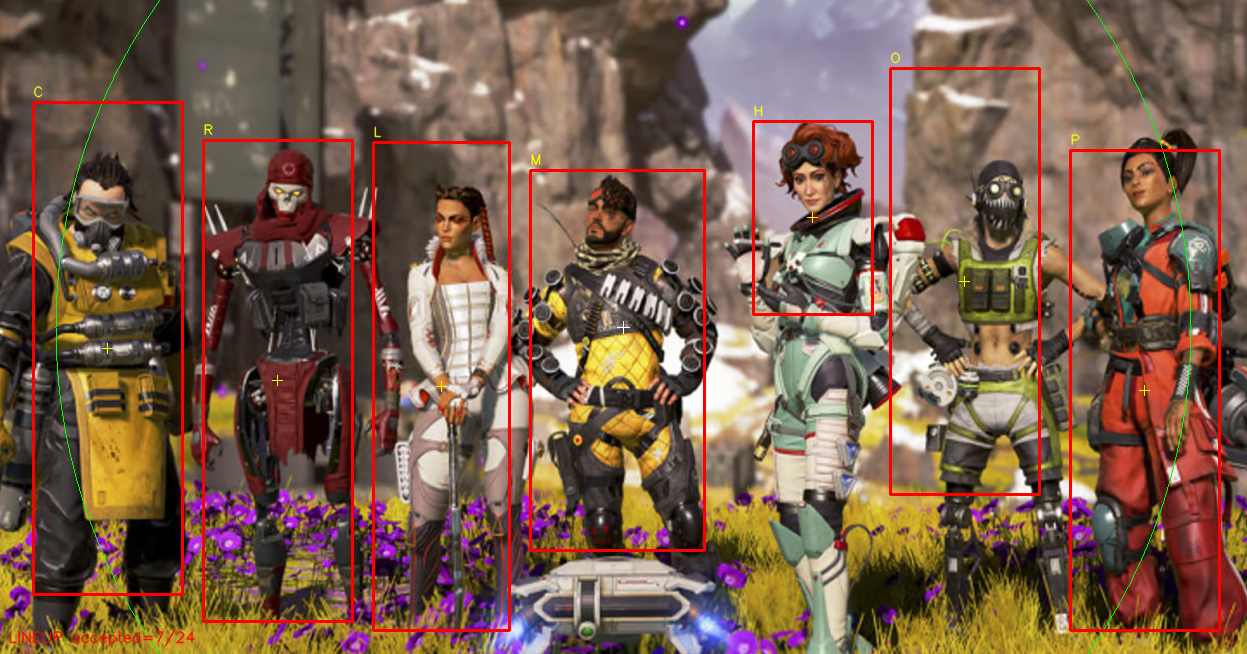
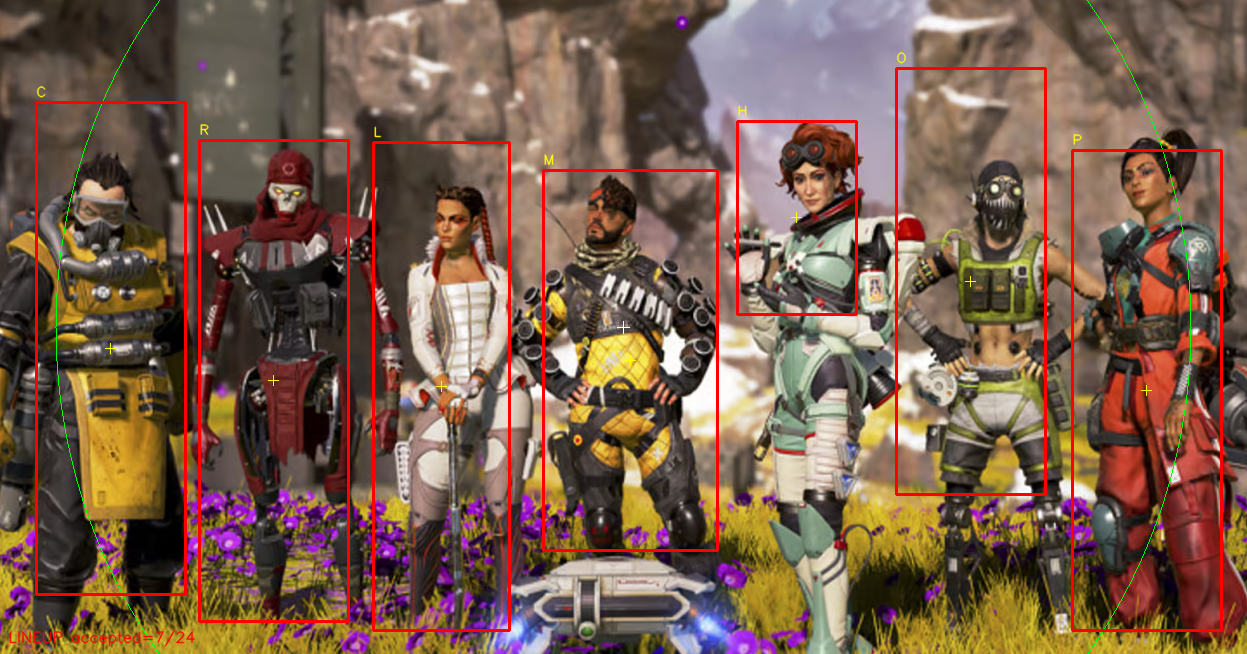
Octane centering via mask torso mean; lineup wiring tests
Final overlay X blends slot anchor with torso-mask centroid (mean x, not
argmax) and clamps to column. Octane slot uses 62% mask weight; Caustic
tight right clamp. Add tests that lineup_display refine is invoked and
enumerate vs find_best_target roles stay distinct.

diff --git a/tests/test_lineup_detector_wiring.py b/tests/test_lineup_detector_wiring.py
@@ -1,0 +1,100 @@
+"""Lineup-wide FOV path: enumerate + analyze_figure + refine stay connected."""
+
+from __future__ import annotations
+
+from pathlib import Path
+from unittest.mock import patch
+
+import cv2
+import pytest
+
+import detector
+
+INPUT = (
+    Path(__file__).resolve().parents[1]
+    / "artifacts"
+    / "real_apex_test"
+    / "_inputs"
+    / "img6_seven_characters.png"
+)
+
+
+@pytest.mark.skipif(not INPUT.exists(), reason="real img6 fixture missing")
+def test_lineup_wide_fov_enables_display_refine() -> None:
+    """img6 FOV must set lineup_display so overlay uses _refine_lineup_display_bbox."""
+    img = cv2.imread(str(INPUT))
+    assert img is not None
+    h, w = img.shape[:2]
+    fov_r = int(0.95 * max(w, h) / 2.0)
+    assert detector._is_lineup_wide_fov(float(fov_r), w, h)
+    refine_calls: list[bool] = []
+    orig_refine = detector._refine_lineup_display_bbox
+
+    def _track_refine(*args, **kwargs):
+        refine_calls.append(True)
+        return orig_refine(*args, **kwargs)
+
+    gray = cv2.cvtColor(img, cv2.COLOR_BGR2GRAY)
+    ctx = detector.DetectionContext()
+    ctx.prev_gray = gray
+    ctx.prev_size = (w, h)
+    with patch.object(
+        detector, "_refine_lineup_display_bbox", side_effect=_track_refine
+    ):
+        cands, _, _ = detector.enumerate_candidates(
+            img,
+            None,
+            fov_r,
+            max(40.0, 60.0 * (min(w, h) / 1080.0) ** 2),
+            w / 2.0,
+            h / 2.0,
+            exclude_bottom_frac=0.05,
+            detection_mode=detector.DETECTION_MODE_APEX,
+            context=ctx,
+        )
+    assert refine_calls, "lineup_display refine never invoked"
+    accepted = [c for c in cands if c.accepted]
+    assert 6 <= len(accepted) <= 8
+
+
+@pytest.mark.skipif(not INPUT.exists(), reason="real img6 fixture missing")
+def test_enumerate_and_collect_share_lineup_wide_reject() -> None:
+    """Both entry points must agree on lineup_wide_fov for the same frame/FOV."""
+    img = cv2.imread(str(INPUT))
+    assert img is not None
+    h, w = img.shape[:2]
+    fov_r = int(0.95 * max(w, h) / 2.0)
+    gray = cv2.cvtColor(img, cv2.COLOR_BGR2GRAY)
+    ctx = detector.DetectionContext()
+    ctx.prev_gray = gray
+    ctx.prev_size = (w, h)
+    min_area = max(40.0, 60.0 * (min(w, h) / 1080.0) ** 2)
+    cx, cy = w / 2.0, h / 2.0
+    enum_cands, _, _ = detector.enumerate_candidates(
+        img,
+        None,
+        fov_r,
+        min_area,
+        cx,
+        cy,
+        exclude_bottom_frac=0.05,
+        detection_mode=detector.DETECTION_MODE_APEX,
+        context=ctx,
+    )
+    with patch.object(detector, "_prune_lineup_candidates") as mock_prune:
+        detector.find_best_target(
+            img,
+            None,
+            fov_r,
+            min_area,
+            cx,
+            cy,
+            exclude_bottom_frac=0.05,
+            detection_mode=detector.DETECTION_MODE_APEX,
+            context=ctx,
+        )
+    assert not mock_prune.called, "find_best_target must not prune (enumerate-only)"
+    octane = sorted([c for c in enum_cands if c.accepted], key=lambda c: c.bbox_x)[5]
+    slot_cx = w * detector._LINEUP_SLOT_X_FRACS[5]
+    oct_cx = octane.bbox_x + octane.bbox_w * 0.5
+    assert abs(oct_cx - slot_cx) <= w * 0.015

diff --git a/detector.py b/detector.py
@@ -1780,6 +1780,29 @@ def _lineup_display_anchor_cx(
     return 0.52 * slot_cx + 0.48 * part_cx
 
 
+def _lineup_mask_torso_peak_gx(
+    mask: np.ndarray,
+    rby: int,
+    rby1: int,
+    cluster_slot: int,
+    frame_w: int,
+) -> float:
+    """Torso-heavy column peak in mask — body center for overlay alignment."""
+    slot_cx = int(frame_w * _LINEUP_SLOT_X_FRACS[cluster_slot])
+    x0m = max(0, slot_cx - int(frame_w * 0.07))
+    x1m = min(frame_w, slot_cx + int(frame_w * 0.07))
+    band = mask[max(0, rby) : min(mask.shape[0], rby1), x0m:x1m]
+    if band.size == 0 or not band.any():
+        return float(slot_cx)
+    ys, xs = np.where(band > 0)
+    h_band = max(1, rby1 - rby)
+    y_mid_lo = int(h_band * 0.20)
+    y_mid_hi = int(h_band * 0.82)
+    torso = (ys >= y_mid_lo) & (ys <= y_mid_hi)
+    xs_use = xs[torso] if torso.any() else xs
+    return float(x0m + float(xs_use.mean()))
+
+
 def _lineup_extend_display_vertical(
     mask: np.ndarray,
     rbx: int,
@@ -1936,10 +1959,24 @@ def _refine_lineup_display_bbox(
             rbx = max(0, int(xs.min()) - pad_x)
             rbx1 = min(frame_w, int(xs.max()) + 1 + pad_x)
             rbw = min(max_col_w, max(8, rbx1 - rbx))
-            anchor_cx = _lineup_display_anchor_cx(parts, bx, by, bw, bh, frame_w, peak_gx)
-            center_x = int(round(anchor_cx))
-            rbx = max(0, min(frame_w - rbw, center_x - rbw // 2))
-            rbx1 = rbx + rbw
+    mask_cx = _lineup_mask_torso_peak_gx(mask, rby, rby1, cluster_slot, frame_w)
+    anchor_cx = _lineup_display_anchor_cx(parts, bx, by, bw, bh, frame_w, peak_gx)
+    slot_cx_f = frame_w * _LINEUP_SLOT_X_FRACS[cluster_slot]
+    if cluster_slot == 5:
+        mask_w = 0.62
+    elif cluster_slot == 0:
+        mask_w = 0.28
+    else:
+        mask_w = 0.48
+    final_cx = (1.0 - mask_w) * anchor_cx + mask_w * mask_cx
+    clamp_lo = slot_cx_f - frame_w * 0.025
+    clamp_hi = slot_cx_f + (
+        frame_w * 0.008 if cluster_slot == 0 else frame_w * 0.025
+    )
+    final_cx = max(clamp_lo, min(clamp_hi, final_cx))
+    center_x = int(round(final_cx))
+    rbx = max(0, min(frame_w - rbw, center_x - rbw // 2))
+    rbx1 = rbx + rbw
     rbh = max(8, rby1 - rby)
     return rbx, rby, rbw, rbh
 

diff --git a/tests/test_img6_lineup_detection.py b/tests/test_img6_lineup_detection.py
@@ -54,6 +54,6 @@ def test_img6_enumerates_multiple_characters_not_one_merge() -> None:
     octane = sorted(accepted, key=lambda c: c.bbox_x)[5]
     slot_cx = w * detector._LINEUP_SLOT_X_FRACS[5]
     oct_cx = octane.bbox_x + octane.bbox_w * 0.5
-    assert abs(oct_cx - slot_cx) <= w * 0.02, (
+    assert abs(oct_cx - slot_cx) <= w * 0.015, (
         f"octane overlay off column: cx={oct_cx:.0f} slot={slot_cx:.0f}"
     )
